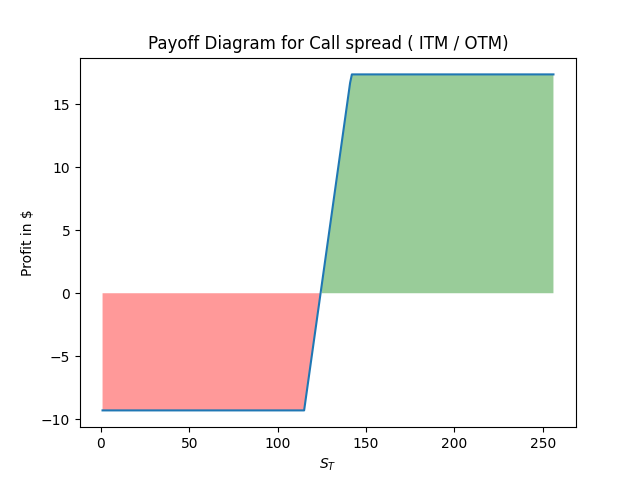
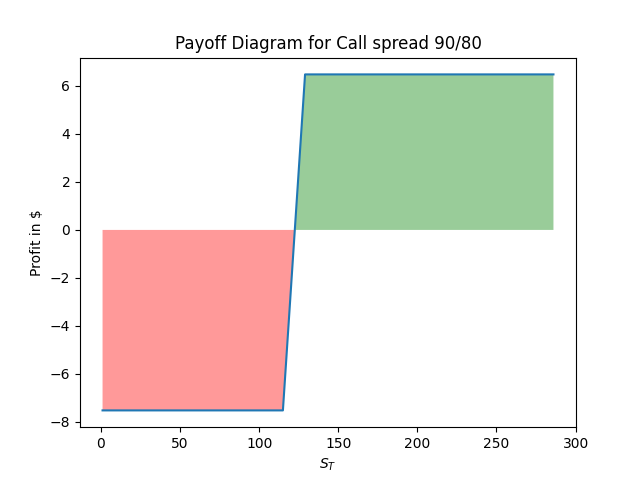
update

diff --git a/mainOptionStrategies.py b/mainOptionStrategies.py
@@ -1,10 +1,8 @@
-from Volatility import ImpliedVolatiliy
 from Option.OptionStrategies import OptionStrategies
 from Option.Option import Option , Stock
 from Enum.OptionType import OpionType
 from Enum.BuySellSide import BuySellSide
 from DataRequest import  y_finane_option_data , y_finane_stock_data
-from Volatility.ImpliedVolatiliy import compute_theorical_IV, plot_ImpliedVolatility
 import numpy as np
 
 ticker = 'TSLA'
@@ -12,59 +10,51 @@ ticker = 'TSLA'
 ## Get Option/underlying stock Prices
 option_df = y_finane_option_data.get_option_data(ticker)
 stockPrices_ = y_finane_stock_data.get_stock_price(ticker)
-last_price = stockPrices_.tail(1)['Adj Close'].values[0]
+currentprice = stockPrices_.tail(1)['Adj Close'].values[0]
 
 #chose options
-currentprice = last_price
-maturities =option_df['T_days'].unique()
-random_maturity = np.random.choice(maturities)
+# We take the 5th closest maturity
+maturity =option_df['T_days'].unique()[5]
 
-options_df = option_df[option_df['T_days'] ==random_maturity]
+options_df = option_df[option_df['T_days'] ==maturity]
 call_df = options_df[options_df['Type'] =='CALL']
 put_df = options_df[options_df['Type'] =='PUT']
 
 
 
-call_OTM_df = call_df.iloc[(call_df['strike']-(currentprice + 15)).abs().argsort()[:1]]
-call_ITM_df = call_df.iloc[(call_df['strike']-(currentprice - 15)).abs().argsort()[:1]]
+#Getting real Quotes options
+call_90_df = call_df.iloc[(call_df['strike']-(currentprice * 0.90)).abs().argsort()[:1]]
+call_80_df = call_df.iloc[(call_df['strike']-(currentprice * 0.80)).abs().argsort()[:1]]
 
-put_OTM_df = put_df.iloc[(put_df['strike']-(currentprice - 15)).abs().argsort()[:1]]
-put_ITM_df = put_df.iloc[(put_df['strike']-(currentprice + 15)).abs().argsort()[:1]]
+put_90_df = put_df.iloc[(put_df['strike']-(currentprice * 0.90)).abs().argsort()[:1]]
+put_80_df = put_df.iloc[(put_df['strike']-(currentprice * 0.80)).abs().argsort()[:1]]
 
 
-## creating initial options objects
-call_OTM = Option(price=call_OTM_df['lastPrice'].values[0], K=call_OTM_df['strike'].values[0] , type= OpionType.CALL)
-call_ITM = Option(price=call_ITM_df['lastPrice'].values[0], K=call_ITM_df['strike'].values[0] , type= OpionType.CALL)
+# Creating Call spread  80 / 90
+call90 = Option(price=call_90_df['lastPrice'].values[0], K=call_90_df['strike'].values[0] , type= OpionType.CALL)
+call80 = Option(price=call_80_df['lastPrice'].values[0], K=call_80_df['strike'].values[0] , type= OpionType.CALL)
 
-put_OTM = Option(price=put_OTM_df['lastPrice'].values[0], K=put_OTM_df['strike'].values[0] , type= OpionType.PUT)
-put_ITM = Option(price=put_ITM_df['lastPrice'].values[0], K=put_ITM_df['strike'].values[0] , type= OpionType.PUT)
 
-#stock = Stock(price = currentprice)
+strategy = OptionStrategies(name = "Call spread 90/80" ,St = currentprice)
+strategy.add_Option(option= call90 ,buySell= BuySellSide.SELL , option_number=1 )
+strategy.add_Option(option= call80 ,buySell= BuySellSide.BUY , option_number=1 )
+strategy.plot()
 
-T = 6
+
+# Creating put spread  80 / 90
+put90 = Option(price=put_90_df['lastPrice'].values[0], K=put_90_df['strike'].values[0] , type= OpionType.PUT)
+put80 = Option(price=put_80_df['lastPrice'].values[0], K=put_80_df['strike'].values[0] , type= OpionType.PUT)
+
+
+strategy = OptionStrategies(name = "PUT Spread 90/ 80" ,St = currentprice)
+strategy.add_Option(option= put90 ,buySell= BuySellSide.BUY , option_number=1 )
+strategy.add_Option(option= put80,buySell= BuySellSide.SELL , option_number=1 )
+strategy.plot()
+
+
+T = maturity /252
 r = 0.015
-vol =  0.20#(call_OTM_df['impliedVolatility'].values[0] + call_ITM_df['impliedVolatility'].values[0] )/ 2
-
-# Creating call spead
-strategy = OptionStrategies(name = "Call spread (ITM / OTM)" ,St = currentprice)
-strategy.add_Option(option= call_OTM ,buySell= BuySellSide.SELL , option_number=1 )
-strategy.add_Option(option= call_ITM ,buySell= BuySellSide.BUY , option_number=1 )
-strategy.plot()
-
-
-strategy.compute_greek_profile(T ,r , vol)
-strategy.plotGreek(greekStr='gamma')
-strategy.plotGreek(greekStr='theta')
-strategy.plotGreek(greekStr='delta')
-strategy.plotGreek(greekStr='vega')
-
-
-# Creating put spread
-strategy = OptionStrategies(name = "PUT Spread (ITM / OTM)" ,St = currentprice)
-strategy.add_Option(option= put_ITM ,buySell= BuySellSide.BUY , option_number=1 )
-strategy.add_Option(option= put_OTM,buySell= BuySellSide.SELL , option_number=1 )
-strategy.plot()
-
+vol = np.average(call_90_df['impliedVolatility'].values[0] + call_80_df['impliedVolatility'].values[0])
 
 strategy.compute_greek_profile(T ,r , vol)
 strategy.plotGreek(greekStr='gamma')
@@ -74,8 +64,8 @@ strategy.plotGreek(greekStr='vega')
 
 
 
-# Creating Straddle => Same Strike
-#Check that CALL = PUT strike
+
+# Creating Straddle
 
 call_dfs= call_df.iloc[(call_df['strike']-(currentprice - 15)).abs().argsort()[:1]]
 put_dfs = put_df[(put_df['strike'] == call_df['strike'].values[0])]
@@ -89,15 +79,8 @@ strategy.add_Option(option= put ,buySell= BuySellSide.BUY , option_number=1 )
 strategy.add_Option(option= call,buySell= BuySellSide.BUY , option_number=1 )
 strategy.plot()
 
-strategy.compute_greek_profile(T ,r , vol)
-strategy.plotGreek(greekStr='gamma')
-strategy.plotGreek(greekStr='theta')
-strategy.plotGreek(greekStr='delta')
-strategy.plotGreek(greekStr='vega')
-
 
 # Creating Strangle
-#Check that CALL strike  >  PUT strike
 
 call_df= call_df.iloc[(call_df['strike']-(currentprice - 15)).abs().argsort()[:1]]
 put_df= put_df.iloc[(put_df['strike']-(currentprice - 70)).abs().argsort()[:1]]
@@ -106,17 +89,10 @@ put_df= put_df.iloc[(put_df['strike']-(currentprice - 70)).abs().argsort()[:1]]
 put = Option(price=put_df['lastPrice'].values[0], K=put_df['strike'].values[0] , type= OpionType.PUT)
 call = Option(price=call_df['lastPrice'].values[0], K=call_df['strike'].values[0] , type= OpionType.CALL)
 
-
 strategy = OptionStrategies(name = "Strangle" ,St = currentprice)
 strategy.add_Option(option= call ,buySell= BuySellSide.BUY, option_number=1 )
 strategy.add_Option(option= put ,buySell= BuySellSide.BUY, option_number=1 )
 strategy.plot()
-
-strategy.compute_greek_profile(T ,r , vol)
-strategy.plotGreek(greekStr='gamma')
-strategy.plotGreek(greekStr='theta')
-strategy.plotGreek(greekStr='delta')
-strategy.plotGreek(greekStr='vega')
 
 
 #synthetic call
@@ -124,7 +100,7 @@ strategy.plotGreek(greekStr='vega')
 put_df1 = put_df.iloc[(put_df['strike']-(currentprice - 15)).abs().argsort()[:1]]
 
 put = Option(price=put_df1['lastPrice'].values[0], K=put_df1['strike'].values[0] , type= OpionType.PUT)
-stock = Stock(price = last_price)
+stock = Stock(price = currentprice)
 
 strategy = OptionStrategies(name = "Synthetic call" ,St = currentprice)
 strategy.add_Option(option= put ,buySell= BuySellSide.BUY, option_number=1 )
@@ -145,22 +121,23 @@ strategy.add_deltaOne(stock=stock,buySell= BuySellSide.SELL )
 
 strategy.plot()
 
-#Butterfly
-obj = OptionStrat('Butterfly Spread', 100, {'start': 85, 'stop':115,'by':0.1})
-obj.long_call(94, 8, 1)        
-obj.long_call(106, 2, 1)
-obj.short_call(100, 4, 2)              
-obj.plot(color='black', linewidth=2)  
-obj.describe()
+# Long Butterfly spread
+
+call1 = Option(price=8, K=currentprice - 25 , type = OpionType.CALL)
+call2 = Option(price=2, K=currentprice + 25, type = OpionType.CALL)
+call3 = Option(price=4, K=currentprice, type = OpionType.CALL)
 
 
-call1 = Option(price=8, K=currentprice-10 , type = OpionType.CALL)
-call2 = Option(price=2, K=currentprice+5 , type = OpionType.CALL)
-call3 = Option(price=4, K=currentprice+10, type = OpionType.CALL)
-
-
-obj = OptionStrategies('Butterfly Spread', St = currentprice)
+strategy = OptionStrategies('Butterfly Spread', St = currentprice )
 strategy.add_Option(option= call1 ,buySell= BuySellSide.BUY, option_number=1 )
-strategy.add_Option(option= call2 ,buySell= BuySellSide.SHORT, option_number=1 )
-strategy.add_Option(option= call3 ,buySell= BuySellSide.BUY, option_number=1 )
+strategy.add_Option(option= call2 ,buySell= BuySellSide.BUY, option_number=1 )
+strategy.add_Option(option= call3 ,buySell= BuySellSide.SELL, option_number=2 )
+strategy.plot()
+
+# Short Butterfly spread
+
+strategy = OptionStrategies('Butterfly Spread', St = currentprice )
+strategy.add_Option(option= call1 ,buySell= BuySellSide.SELL, option_number=1 )
+strategy.add_Option(option= call2 ,buySell= BuySellSide.SELL, option_number=1 )
+strategy.add_Option(option= call3 ,buySell= BuySellSide.BUY, option_number=2 )
 strategy.plot()

diff --git a/mainHestonSimulation.py b/mainHestonSimulation.py
@@ -53,8 +53,8 @@ T = 1.0                # time in years intil maturity , let's say 1year
 kappa = 3          #rate of mean reversion of variance under risk-neutral dynamics
 theta = timeSeries['realised_volatility_6M'].mean() **2  # long-term mean of variance under risk-neutral dynamics
 v0 = timeSeries['realised_volatility_6M'].tail(1).values[0] **2   # # initial variance under risk-neutral dynamics
-rho =  0.055604   # correlation between returns and variances under risk-neutral dynamics
-sigma = 0.6    # volatility of volatility
+rho =  0.055604
+sigma = 0.6
 
 
 s_sim , vol_sim =  heston_model_sim(S0, v0, rho, kappa, theta, sigma, T, r,10)
@@ -87,29 +87,4 @@ vol_sim.plot()
 plt.ylabel('Volatility')
 plt.title('Heston Stochatic Vol Simulation')
 plt.show()
-
-
-
-strikes =np.arange(currentPrice - 100, currentPrice  + 100,1)
-
-calls = []
-test_s = s_sim[:,-1]
-
-
-for K in strikes:
-    C = np.mean(np.maximum(K-test_s,0))*np.exp(-r*T)
-    calls.append(C)
-
-
-ivs = [compute_theorical_IV(C, currentPrice, K, T, r,type_='CALL') for C, K in zip(calls,strikes)]
-
-plt.plot(strikes, ivs)
-plt.ylabel('Implied Volatility')
-plt.xlabel('Strike')
-plt.axvline(currentPrice, color='black',linestyle='--',label='Spot Price')
-plt.title('Implied Volatility Smile from Heston Model')
-plt.legend()
-plt.show()
-
-
 

diff --git a/mainImpliedVolatility.py b/mainImpliedVolatility.py
@@ -62,8 +62,8 @@ stockPrices_ = y_finane_stock_data.get_stock_price(ticker)
 last_price = stockPrices_.tail(1)['Adj Close'].values[0]
 option_df['underlying_LastPrice'] = last_price
 
-type = 'CALL'
-opt =  option_df[(option_df.Type==type)]
+
+opt =  option_df[(option_df.inTheMoney==False)]
 opt =  opt[(opt.strike <= last_price+100)]
 opt =  opt[(opt.strike >= last_price-100)]
 opt =  opt[(opt.T_days <=200)]
@@ -73,9 +73,9 @@ opt = opt[['strike' , 'T_days','impliedVolatility']]
 # Initiate figure
 fig = plt.figure(figsize=(7, 7))
 axs = plt.axes(projection="3d")
-axs.plot_trisurf(opt.MoneyNess, opt.T_days , opt.impliedVolatility, cmap=cm.coolwarm)
+axs.plot_trisurf(opt.strike, opt.T_days , opt.impliedVolatility, cmap=cm.coolwarm)
 axs.view_init(40, 65)
 plt.xlabel("Strike")
 plt.ylabel("Days to expire")
-plt.title(f"Volatility Surface for {type} {ticker} - Implied Volatility as a Function of K and T")
+plt.title(f"Volatility Surface for OTM {ticker} - Implied Volatility as a Function of K and T")
 plt.show()

diff --git a/README.md b/README.md
@@ -56,52 +56,48 @@ In the case of the following strategies we have taken real options that quote th
 Click here to see the code of the strategy Engine =>  [OptionStrategies.py](https://github.com/AdrienCss/OptionTrading/blob/main/Option/OptionStrategies.py)<=
 
 ```ruby
-# type of code to generate simple call spread strategy
-option_df = y_finane_option_data.get_option_data(ticker)
-stockPrices_ = y_finane_stock_data.get_stock_price(ticker)
-last_price = stockPrices_.tail(1)['Adj Close'].values[0]
 
-currentprice = last_price
+# We take the 5th closest maturity
+maturity =option_df['T_days'].unique()[5]
 
-#choosing random maturitie among all quotes
-maturities =option_df['T_days'].unique()
-random_maturity = np.random.choice(maturities)
-
-
-## options_df
-options_df = option_df[option_df['T_days'] ==random_maturity]
-
+options_df = option_df[option_df['T_days'] ==maturity]
 call_df = options_df[options_df['Type'] =='CALL']
 put_df = options_df[options_df['Type'] =='PUT']
 
-call_OTM = call_df.iloc[(call_df['strike']-(currentprice + 15)).abs().argsort()[:1]]
-call_ITM = call_df.iloc[(call_df['strike']-(currentprice - 15)).abs().argsort()[:1]]
+#Getting real Quotes options
+call_90_df = call_df.iloc[(call_df['strike']-(currentprice * 0.90)).abs().argsort()[:1]]
+call_80_df = call_df.iloc[(call_df['strike']-(currentprice * 0.80)).abs().argsort()[:1]]
 
-put_OTM = put_df.iloc[(put_df['strike']-(currentprice - 15)).abs().argsort()[:1]]
-put_ITM = put_df.iloc[(put_df['strike']-(currentprice + 15)).abs().argsort()[:1]]
-
-
-## creating initial options objects
-call_OTM = Option(price=call_OTM['lastPrice'].values[0], K=call_OTM['strike'].values[0] , type= OpionType.CALL)
-call_ITM = Option(price=call_ITM['lastPrice'].values[0], K=call_ITM['strike'].values[0] , type= OpionType.CALL)
-
-put_OTM = Option(price=put_OTM['lastPrice'].values[0], K=put_OTM['strike'].values[0] , type= OpionType.PUT)
-put_ITM = Option(price=put_ITM['lastPrice'].values[0], K=put_ITM['strike'].values[0] , type= OpionType.PUT)
-
-#stock = Stock(price = currentprice)
+put_90_df = put_df.iloc[(put_df['strike']-(currentprice * 0.90)).abs().argsort()[:1]]
+put_80_df = put_df.iloc[(put_df['strike']-(currentprice * 0.80)).abs().argsort()[:1]]
 
 
-# Creating call spead
-strategy = OptionStrategies(name = "Call spread (ITM / OTM)" ,St = currentprice)
-strategy.add_Option(option= call_OTM ,buySell= BuySellSide.SELL , option_number=1 )
-strategy.add_Option(option= call_ITM ,buySell= BuySellSide.BUY , option_number=1 )
+# Creating Call spread  80 / 90
+call90 = Option(price=call_90_df['lastPrice'].values[0], K=call_90_df['strike'].values[0] , type= OpionType.CALL)
+call80 = Option(price=call_80_df['lastPrice'].values[0], K=call_80_df['strike'].values[0] , type= OpionType.CALL)
+
+
+strategy = OptionStrategies(name = "Call spread 90/80" ,St = currentprice)
+strategy.add_Option(option= call90 ,buySell= BuySellSide.SELL , option_number=1 )
+strategy.add_Option(option= call80 ,buySell= BuySellSide.BUY , option_number=1 )
+strategy.plot()
+
+
+# Creating put spread  80 / 90
+put90 = Option(price=put_90_df['lastPrice'].values[0], K=put_90_df['strike'].values[0] , type= OpionType.PUT)
+put80 = Option(price=put_80_df['lastPrice'].values[0], K=put_80_df['strike'].values[0] , type= OpionType.PUT)
+
+
+strategy = OptionStrategies(name = "PUT Spread 90/ 80" ,St = currentprice)
+strategy.add_Option(option= put90 ,buySell= BuySellSide.BUY , option_number=1 )
+strategy.add_Option(option= put80,buySell= BuySellSide.SELL , option_number=1 )
 strategy.plot()
 ```
 
 
-Put Spread Payoff             | Call Spread Payoff
+Put Spread Payoff 80%/90%            | Call Spread Payoff 80%/90%
 :-------------------------:|:-------------------------:
-<img src="Images/putSpread.png" width="400">  |  <img src="Images/callSpread.png" width="400">
+<img src="Images/putSpread8090.png" width="400">  |  <img src="Images/callSpread.png" width="400">
 
 
 
@@ -114,9 +110,9 @@ Straddle Payoff             | Strangle Payoff
 <img src="Images/straddle.png" width="400">  |  <img src="Images/strangle.png" width="400">
 
 
-Butterflies             | Strangle Payoff
+Long Butterfly spread           | Short Butterfly spread
 :-------------------------:|:-------------------------:
-<img src="Images/straddle.png" width="400">  |  <img src="Images/strangle.png" width="400">
+<img src="Images/LongButterfly.png" width="400">  |  <img src="Images/ShortButterFly.png" width="400">
 
 
 
@@ -201,12 +197,12 @@ The binomial model provides a multi-period view of the underlying asset price as
 
 
 # **Implied Volatility Calculation and Plotting for Options**
+- [mainImpliedVolatility.py](https://github.com/AdrienCss/OptionTrading/blob/main/mainImpliedVolatility.py)<=
 
 - Ploting observed implied volatility of real option's quotes.
 - Computing implied volatility using Newton-Raphson Model.
 - ploting skew/smile on short and long maturites ( short/long Smile)
 
-source file =>  [mainImpliedVolatility.py](https://github.com/AdrienCss/OptionTrading/blob/main/mainImpliedVolatility.py)<=
 
 
 We can observe implied ( black) volatility Skew at different maturites ( long/short smile)
@@ -268,12 +264,19 @@ plt.ylabel("Days to expire")
 plt.title(f"Volatility Surface for {type} {ticker} - Implied Volatility as a Function of K and T")
 plt.show()
 ```
+ Black Implied Volatility OTM |  -
+:-------------------------:|:-------------------------:
+<img src="Images/OTM_IV.png" width="400">  |  -
 
 
+We can observe it for each type of option also
 
  Black Implied Volatility CALL |  Black Implied Volatility PUT 
 :-------------------------:|:-------------------------:
 <img src="Images/IV_CALL.png" width="400">  |  <img src="Images/IV_PUT.png" width="400">
+
+
+
 
 
 # **Local volatility vs implied Volatility**
